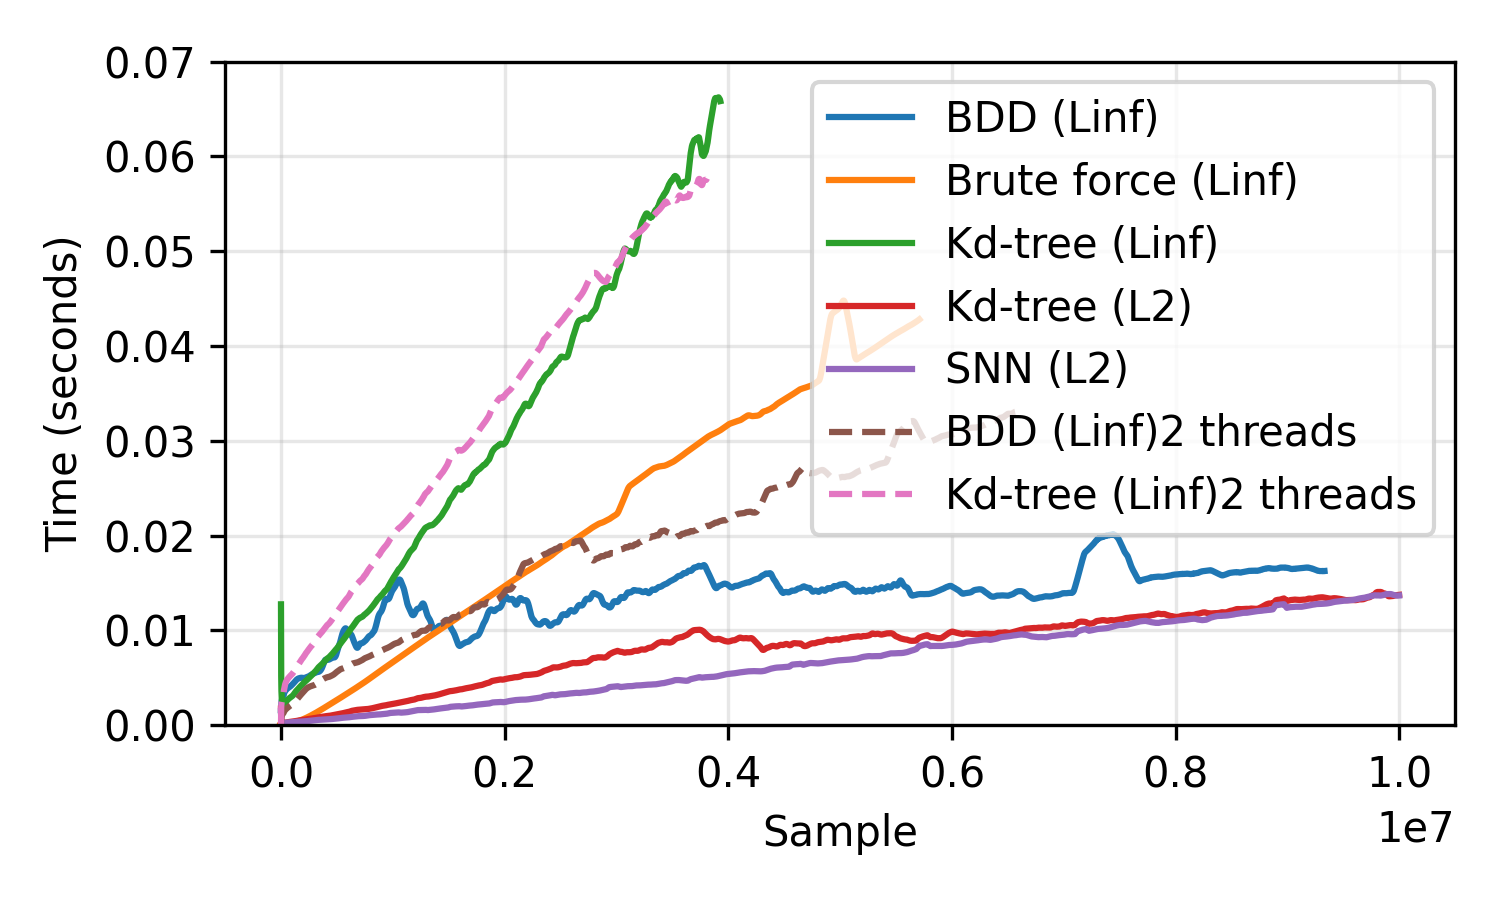
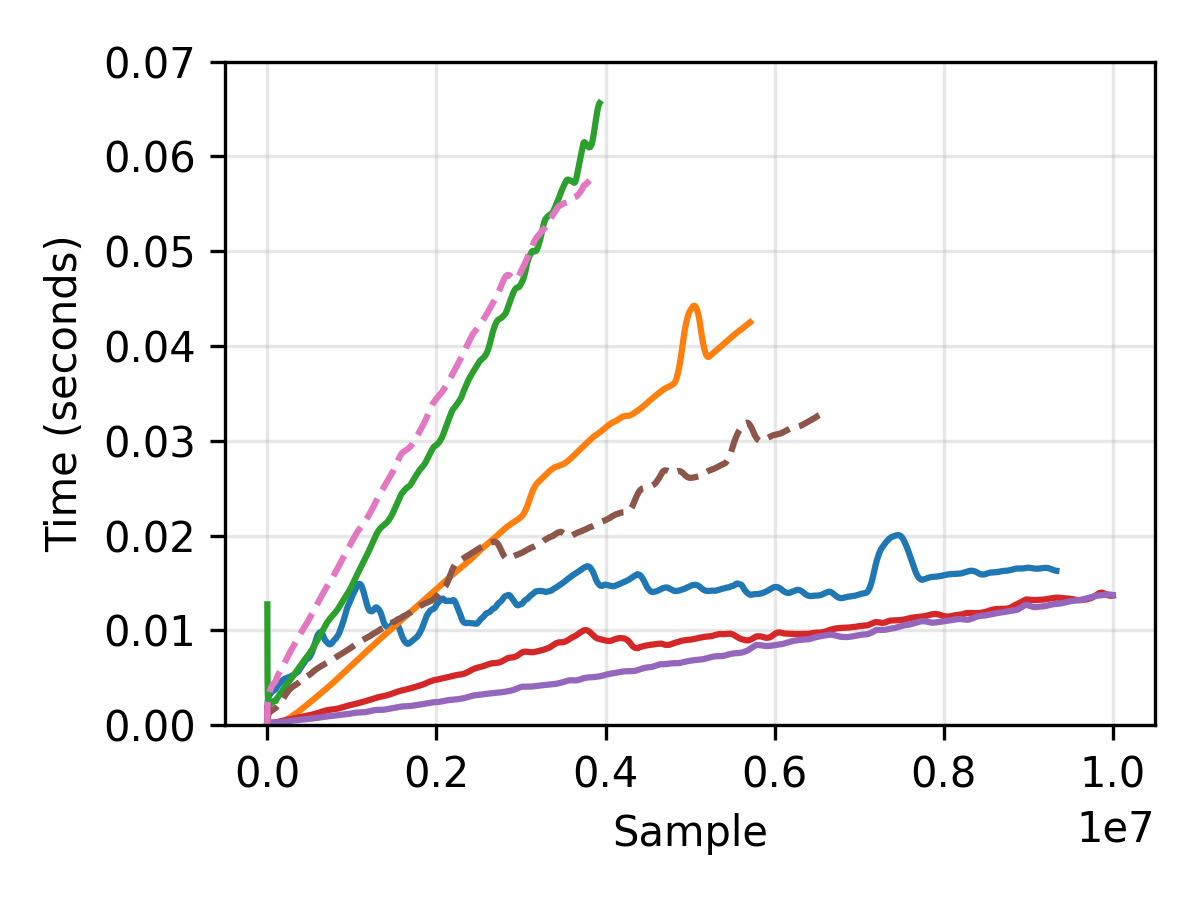
final-ish perf plots

diff --git a/results/performance/plot.py b/results/performance/plot.py
@@ -50,7 +50,7 @@ def parse_filename(filepath):
 
     name = f"{method_displaynames[method]} ({norm_displaynames[norm]})"
     if parallelization != '1':
-        name += f'{parallelization} threads'
+        name += f' {parallelization}t'
     
     return {
         'method': method,
@@ -85,12 +85,12 @@ for filepath in glob.glob(os.path.join(args.results_dir, 'results/*/*.json')):
 data.sort(key=lambda x: (x['parallelization'], x['norm'], x['method']))
 
 # Create plot
-plt.figure(figsize=(5, 3))
+plt.figure(figsize=(4, 3))
 
 for item in data:
     x = np.arange(len(item['timings'][args.omit_beginning:]))[::1000]
     y = rolling_average(item['timings'][args.omit_beginning:], args.windowsize)[::1000]
-    y = rolling_average(y, 25)
+    y = rolling_average(y, args.windowsize // 1000) # More smoothing
     plt.plot(x, y, '-' if item['parallelization'] == '1' else '--', label=item["name"])
 
 plt.xlabel('Sample')
@@ -98,6 +98,6 @@ plt.ylabel('Time (seconds)')
 plt.ylim(top=0.07, bottom=0)
 plt.grid(True, alpha=0.3)
 #plt.title(f"dropcols={args.sample}, eps={args.eps}")
-plt.legend()
+#plt.legend()
 plt.tight_layout()
 plt.savefig(os.path.join(args.results_dir, args.outfile), dpi=300)
